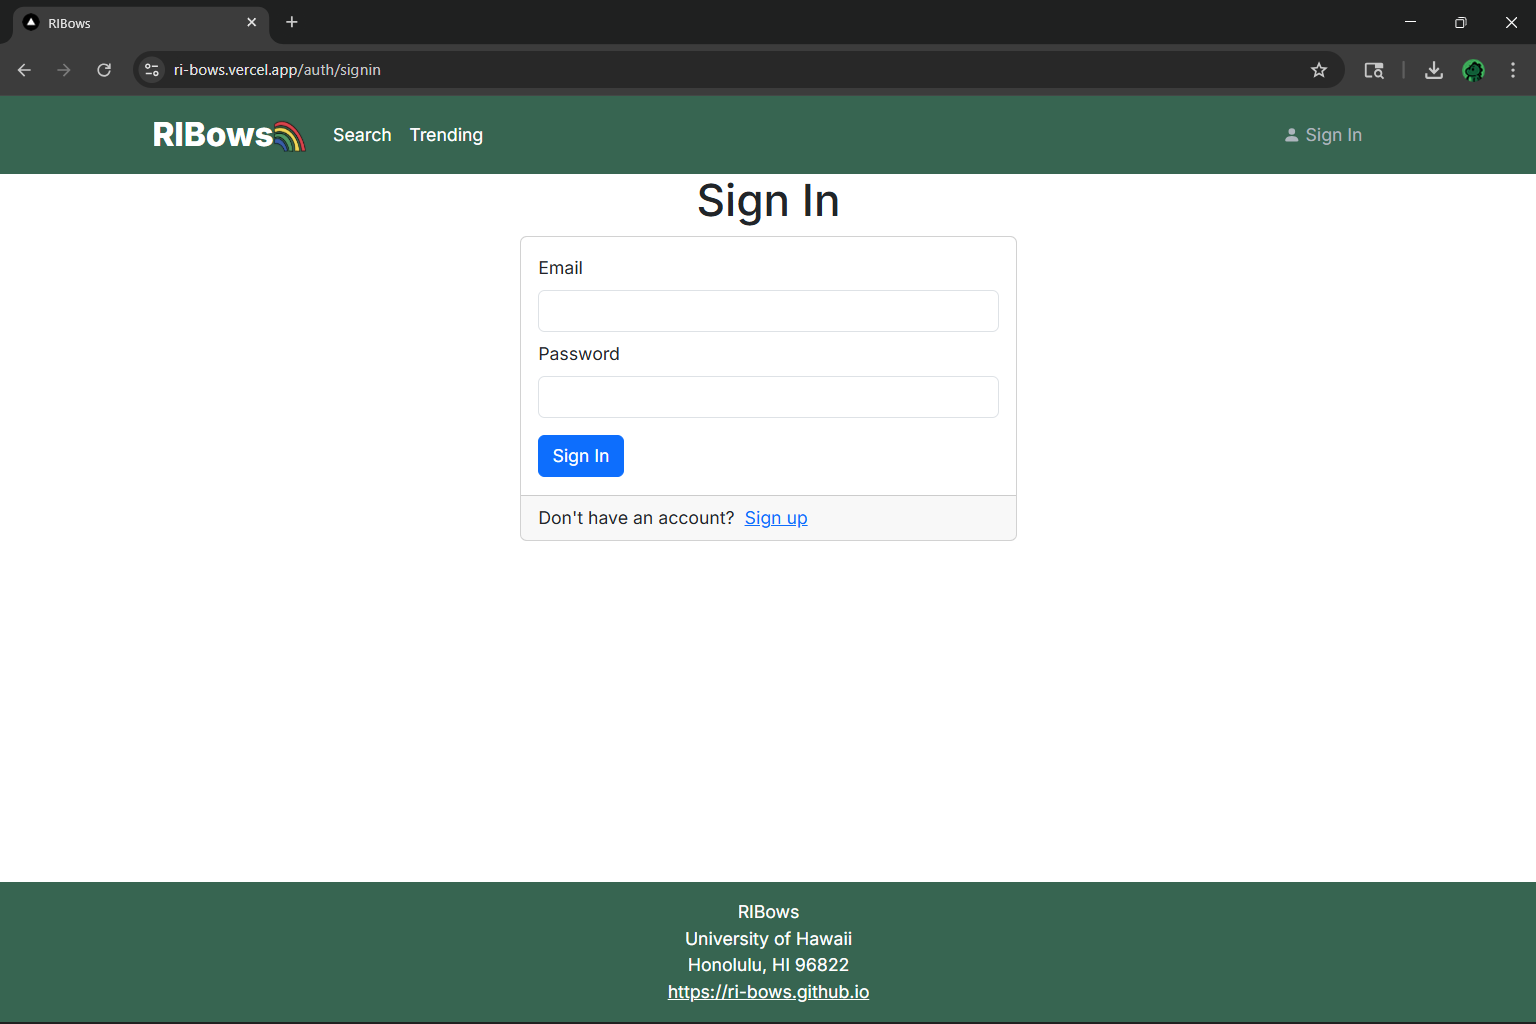
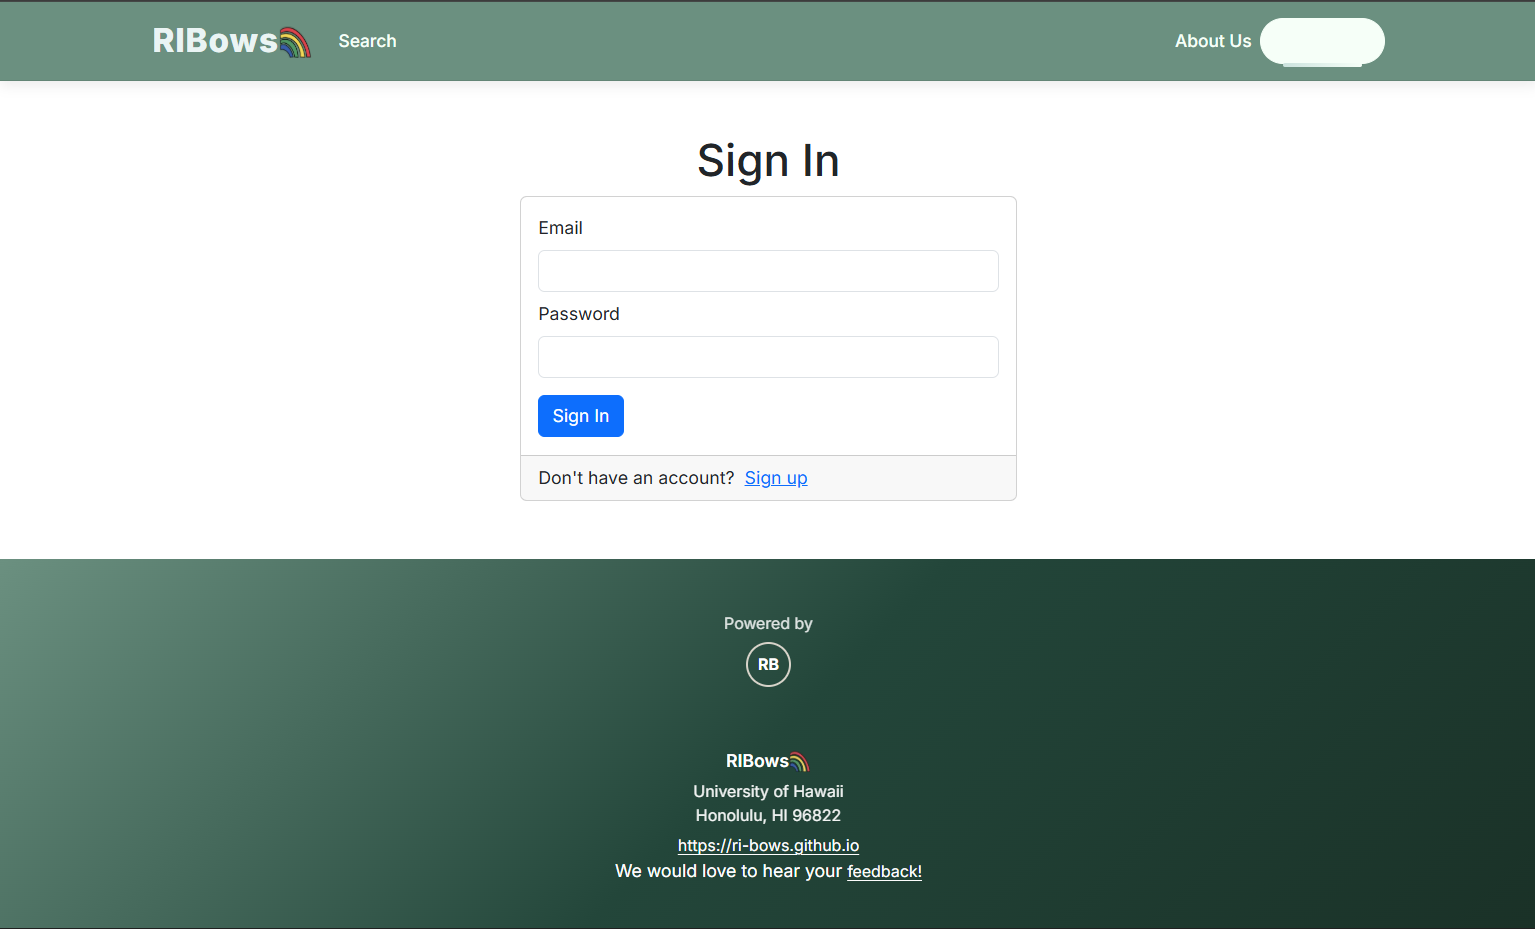
Updated github.io Page
- updated pictures
- added Continuous Integration badge

diff --git a/index.md b/index.md
@@ -1,12 +1,11 @@
-<img width="2880" height="1556" alt="image" src="https://github.com/user-attachments/assets/ec6d0859-3cda-48f8-8da2-1174ac1da487" /> #RIBows
+### RIBows
 
 ## Table of Contents
 - [Overview](#overview)
-- [Admin Features](#admin-features)
 - [Deployment](#deployment)
 - [User Guide](#user-guide)
-- [Pages](#pages)
 - [Community Feedback](#community-feedback)
+- [Continuous Integration](#continuous-integration)
 - [Developer Guide](#developer-guide)
 - [Development History](#development-history)
 - [Team](#team)
@@ -14,22 +13,18 @@
 ## Overview
 RIBows is a website built by University of Hawaii at Manoa (UHM) students, for UHM students, to easily search for, discover, and join Registered Independent Organizations (RIOs). RIBows gives users the flexibility to browse trending RIOs or search for specific RIOs based on interests or keywords. If a user sees an RIO that interests them, they can use the bookmarking feature to save the RIO for easy future reference. Once a user finds an RIO they want to join, simply clicking the "apply" button allows them to send an application to the RIO admin.
 
-## Admin Features
-Via an admin account, RIO admins can edit their RIO, allowing them to customize its image, description, and more. 
-
 ## Deployment
 The RIBows application was deployed on Vercel through this [link](https://ri-bows.vercel.app/)
 
 ## User Guide
 This section provides a walkthrough of the RIBows user interface and its capabilities.
 
-## Pages
-### Landing
+### Landing Page
 The landing page is presented to users when they visit the top-level URL of the site. This page explains basic usage of the website and displays currently trending RIOs.
 
 ![](images/landingPage.png)
 
-### Sign In / Sign Up
+### Sign In / Sign Up Pages
 Users can access the sign in page via the "Sign In" button on the navbar. There, the user has the option to either sign in or create a new account.
 
 ![](images/signIn.png)
@@ -38,24 +33,37 @@ On the sign up page, users are able to create their account and specify the type
 
 ![](images/signUp.png)
 
-### Edit Profile
+### Edit Profile Page
 ![](images/editProfile.png)
 On this page, users are able to update their first and last names, change their club interests, and see a simple preview of how their profile information will appear.
 
-### Bookmarked
+### Bookmark Page
 Logged in users can view RIOs they've bookmarked by pressing "Saved" on the navbar.
 
 ![](images/bookmarks.png)
 
-### Search
+### Search Page
 The "Search" page accessible from the navbar allows users to search for RIOs with keywords of their choice. Users also have the option to filter RIOs based on interests, date added, and more.
 
 ![](images/search.png)
 
-### Admin
-If the user signs in with an admin account, they will be able to add their RIO's details from the admin page.
+### About Us Page
+There's also an about us page that tells you information about the creators of RIBows.
 
-![](images/addRio.png)
+![](images/aboutUs.png)
+
+### Edit RIO Page
+If the user is logged in a club account they will have access to the information that their RIO will display.
+
+![](images/editRIO.png)
+
+### Admin Priviliges
+As an admin you can add RIO's to the database:
+
+![](images/addRIO.png)
+
+As well as edit any RIO allowing them to customize its image, description, and more by using the admin search tab and then clicking on the edit button. (currently not done)
+![](images/editRIOAdmin.png)
 
 ## Community Feedback
 We have also added a feedback page. If the user would like, they could take a couple of minutes to fill out the [RIBows Feedback Form](https://ri-bows.vercel.app/feedback). The form asks for the user's email address and a text area to include feedback/improvements for our app.
@@ -64,7 +72,6 @@ We have also added a feedback page. If the user would like, they could take a co
 
 ## Developer Guide
 This section explains how to download, install, run, and modify the RIBows system.
-
 
 ### Prerequisites
 Before you begin, make sure you have:
@@ -128,6 +135,17 @@ Updating the Data model
 
 ### 6. Linting and tests
 Run ESLint to catch issues before committing: <code>npm run lint</code>
+
+## Continuous Integration
+
+CI badges:
+[![ESLint](https://github.com/RI-Bows/RIBows/actions/workflows/eslint.yml/badge.svg)](https://github.com/RI-Bows/RIBows/actions/workflows/eslint.yml)
+[![Playwright](https://github.com/RI-Bows/RIBows/actions/workflows/playwright.yml/badge.svg)](https://github.com/RI-Bows/RIBows/actions/workflows/playwright.yml)
+
+BowFolios uses [GitHub Actions](https://docs.github.com/en/free-pro-team@latest/actions) to automatically run ESLint and Playwright Tests each time a commit is made to the default branch.  You can see the results of all recent "workflows" at [https://github.com/RI-Bows/RIBows/actions](https://github.com/RI-Bows/RIBows/actions).
+
+The workflow definition files are quite simple and is located at
+[.github/workflows](https://github.com/RI-Bows/RIBows/tree/main/.github/workflows).
 
 ## Development History
 
